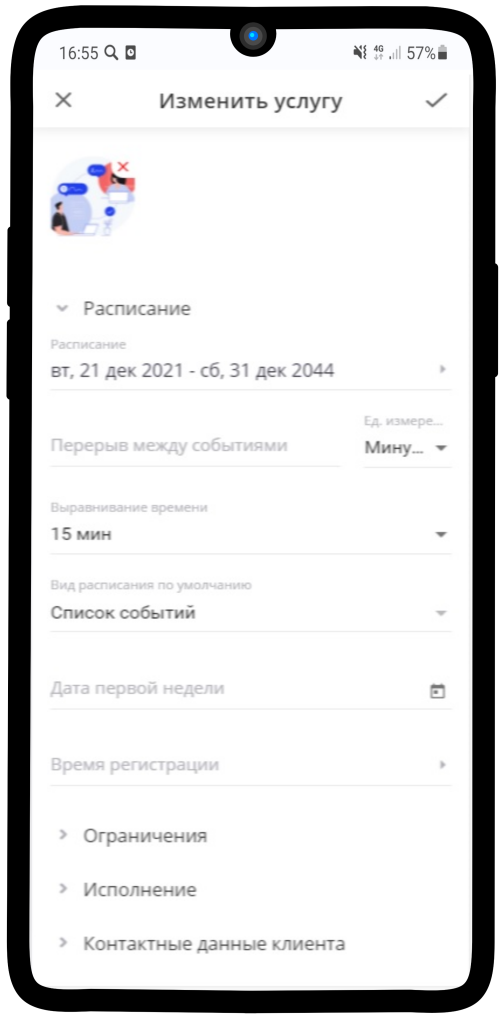
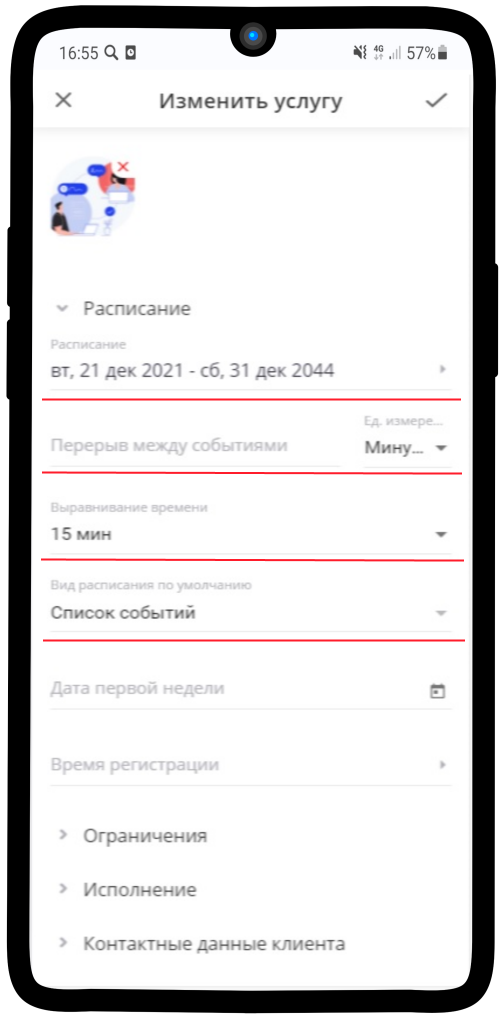
add_mockupservice

diff --git a/source/cases/edit_service/edit_service.rst b/source/cases/edit_service/edit_service.rst
@@ -25,14 +25,6 @@
       :width: 21
       :alt: alternative text
 
-Нажмите на |визитка| в нижнем правом углу, выберите **Публичную визитку**.
-
-.. figure:: media/gif/overview2.gif
-    :scale: 70 %
-    :alt: alternate text
-    :align: center 
-
---------------------
 
 Так выглядит процесс **Записи на встречу** с Вами
 
@@ -43,10 +35,10 @@
 
 --------------------
 
-Таким образом она будет отображаться в Вашем календаре
+Таким образом она будет отображаться в Вашем **календаре**
 
-.. figure:: media/gif/reg_in_calendar.gif
-    :scale: 70 %
+.. figure:: media/gif/calendar.png
+    :scale: 53 %
     :alt: alternate text
     :align: center
 
@@ -61,7 +53,7 @@
 
 --------------------
 
-2. Вы можете настроить **Расписание** под Ваше рабочее время. Добавить перерывы между событиями. Установить **Выравнивание времени** и **Вид расписания по умолчанию**.
+2. Вы можете настроить **Расписание** под Ваше рабочее время. Добавить **перерывы между событиями**. Установить **Выравнивание времени** и **Вид расписания по умолчанию**.
 
 .. figure:: media/gif/editt_timetable.png
     :scale: 53 %
@@ -104,7 +96,7 @@
 
 --------------------
 
-6. Также можно изменить **Шаги записи** на встречу.
+6. При необходимости измените **Шаги записи** на встречу.
 
 .. figure:: media/gif/editt_steps.png
     :scale: 53 %
@@ -113,7 +105,7 @@
 
 --------------------
 
-7. Удалить лишний **Шаг записи** на встречу.
+7. Удалите лишний **Шаг записи** на встречу.
 
 .. figure:: media/gif/delete_steps.png
     :scale: 53 %
@@ -122,7 +114,7 @@
 
 --------------------
 
-8. Или добавить необходимый **Шаг записи** на встречу.
+8. Или добавьте необходимый **Шаг записи** на встречу.
 
 .. figure:: media/gif/add_steps.png
     :scale: 53 %
@@ -131,7 +123,7 @@
 
 --------------------
 
-9. Также **Шаги записи** можно менять местами - выстраивать порядок записи.
+9. Также **Шаги записи** можете менять местами - выстраивать порядок записи.
 
 .. figure:: media/gif/up_steps.png
     :scale: 53 %
@@ -158,7 +150,7 @@
 
 --------------------
 
-12. Можно добавить дополнительные поля или удалить лишние. Сделать обязательными, поставив галочку.
+12. Добавьте дополнительные поля или удалите лишние. Сделайте обязательными, поставив галочку.
    
 .. figure:: media/gif/delete_addsteps.png
     :scale: 53 %
@@ -178,7 +170,7 @@
 
 --------------------
 
-2. Также можно настроить поля ресурсов. Например, продолжительность встречи.
+2. Настройте поля ресурсов. Например, продолжительность встречи.
 
 .. figure:: media/gif/resource_duration.png
     :scale: 53 %
@@ -196,9 +188,4 @@
 
 --------------------
 
-4. Чтобы **добавить новый** ресурс, нажмите на |плюс|, потом на |меню| и выбираем **Создать ресурс**.
-
-.. figure:: media/gif/add_resource.gif
-    :scale: 70 %
-    :alt: alternate text
-    :align: center
+4. Чтобы **добавить новый** ресурс, нажмите на |плюс| в правом нижнем углу, потом на |меню| и выбираем **Создать ресурс**.

diff --git a/source/cases/cleaning/cleaning.rst b/source/cases/cleaning/cleaning.rst
@@ -10,9 +10,12 @@
 
 **Регистрация в Torrow**
 
-Для начала работы с **Torrow** пройдите регистрацию
-(:ref:`registration-label`)
+Для начала работы с **Torrow** пройдите регистрацию (:ref:`registration-label`) и заполните **Визитку** (:ref:`buisnesscard-label`)
 
+.. figure:: media/gif/bcard.png
+   :scale: 60 %
+   :alt: alternate text
+   :align: center
 
    .. |плюс| image:: media/plus.png
       :width: 21
@@ -23,20 +26,26 @@
    .. |галка| image:: media/galka.png
       :width: 21
       :alt: alternative text
+   .. |точка| image:: media/tochka.png
+      :width: 21
+      :alt: alternative text
 
 -------------------------
+
 **Создание Раздела**
 
-1. Нажмите на иконку в верхнем правом углу и выберите пункт **Добавить раздел**.
+1. Нажмите на |точка| в верхнем правом углу и выберите пункт **Добавить раздел**.
 
-.. figure:: media/gif/add_section.gif
+.. figure:: media/gif/add_razdel.png
    :scale: 60 %
    :alt: alternate text
    :align: center
 
+--------------------
+
 2. Назовите раздел, как Вам удобно и выберите подходящую иконку. Для завершения нажмите |галка|.
 
-.. figure:: media/gif/create_section.gif
+.. figure:: media/gif/razdel.png
    :scale: 60 %
    :alt: alternate text
    :align: center
@@ -45,9 +54,9 @@
 
 **Создание Контакта**
 
-1) Войдите в созданный Вами раздел, нажмите |плюс| и выберите иконку |контакт| (:ref:`contact-label`).
+1) Войдите в созданный Вами раздел, нажмите |плюс| в правом нижнем углу и выберите иконку |контакт| (:ref:`contact-label`).
       
-.. figure:: media/gif/create_contact.gif
+.. figure:: media/gif/add_contact.png
    :scale: 60 %
    :alt: alternative text
    :align: center
